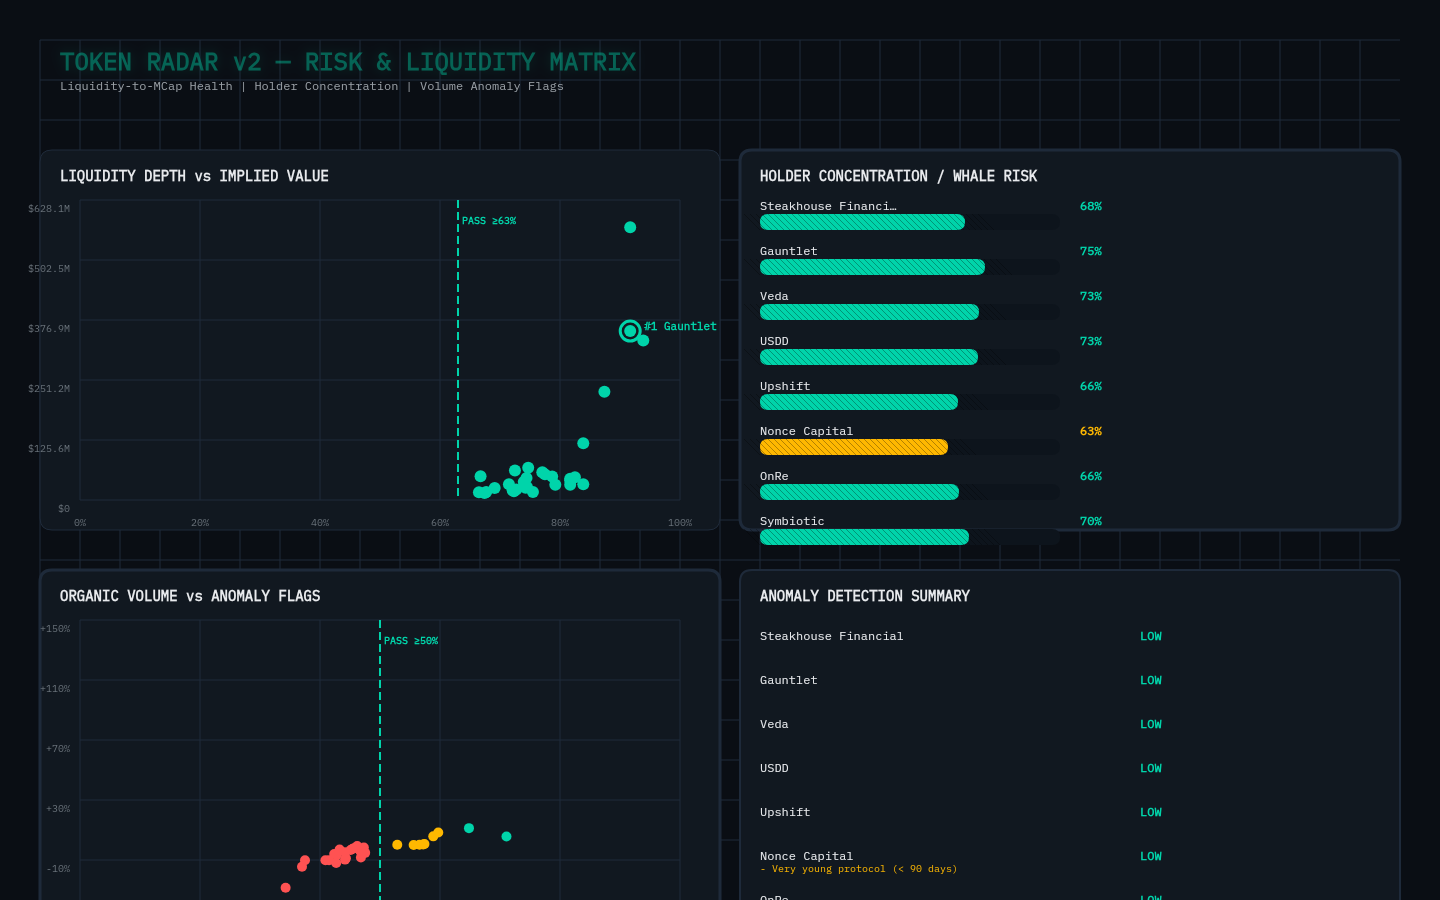
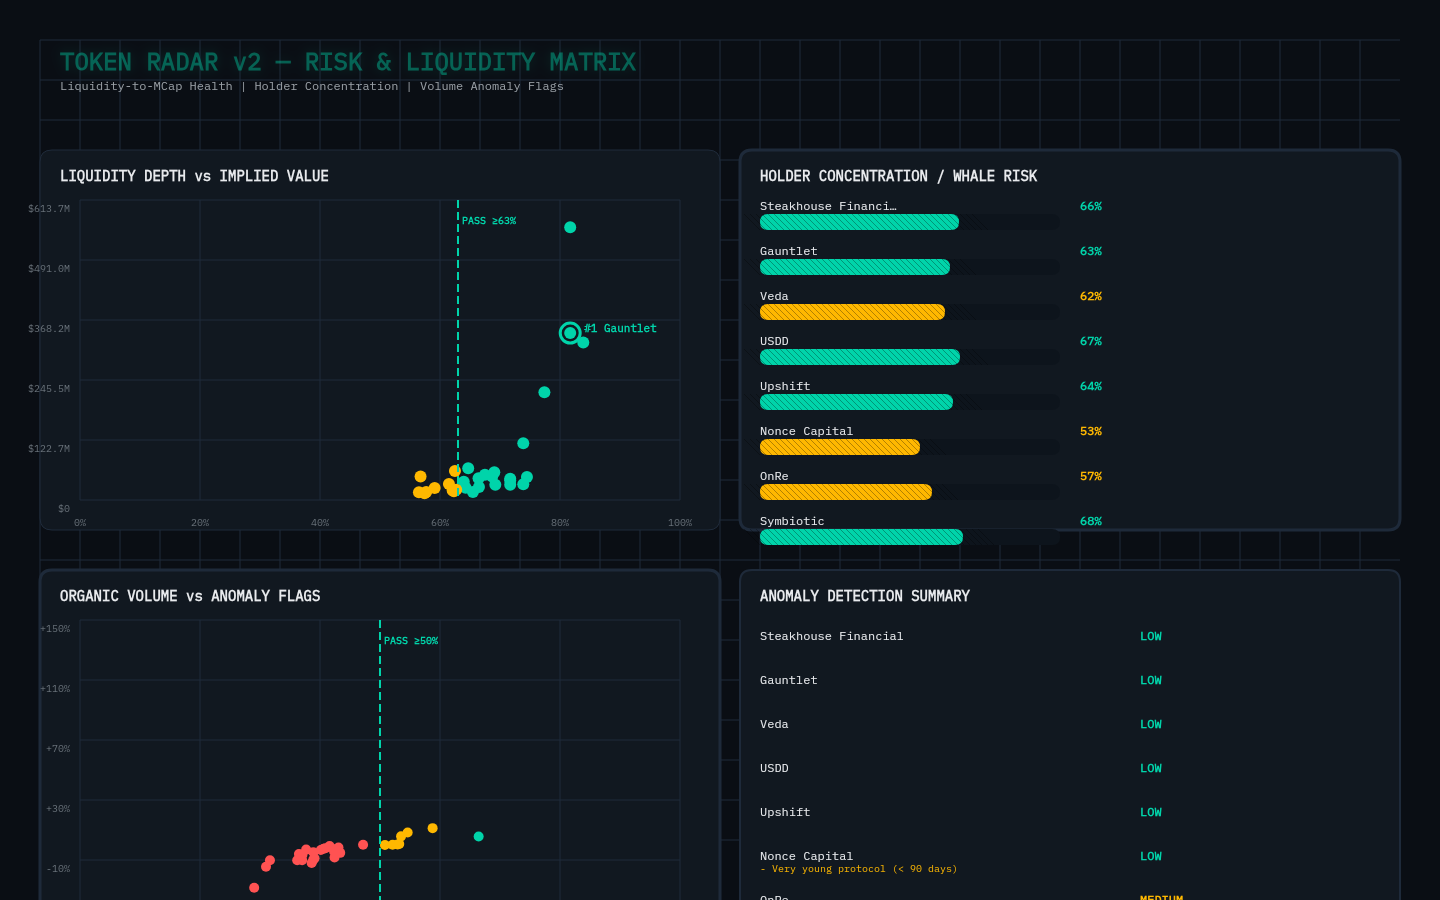
Fix market overview data source and regenerate screenshots
- Update loadRadarData() to check MAKEFUN_OUTPUT_DIR env var first, then output/data.js, then output-test/data.js so screenshots always read the active dataset
- Regenerate all 3 PNGs with correct counts (PASS=6, WATCH=139, REJECT=55; LOW=6, MEDIUM=139, HIGH=55, CRITICAL=0)
- Sync PNGs to /sdcard/Download/
- Re-verify SHA-256 determinism (match confirmed)

🤖 Generated with [Claude Code](https://claude.com/claude-code)

diff --git a/src/generate-screenshots.ts b/src/generate-screenshots.ts
@@ -132,8 +132,15 @@ function drawGlowText(ctx: CanvasRenderingContext2D, text: string, x: number, y:
 }
 
 function loadRadarData() {
-  const dataPath = join(outputDir, 'data.js');
-  if (!existsSync(dataPath)) {
+  const envOut = process.env.MAKEFUN_OUTPUT_DIR;
+  const candidatePaths = [
+    envOut ? join(envOut, 'data.js') : null,
+    join(projectRoot, 'output', 'data.js'),
+    join(projectRoot, 'output-test', 'data.js'),
+  ].filter((p): p is string => Boolean(p));
+
+  const dataPath = candidatePaths.find(p => existsSync(p));
+  if (!dataPath) {
     throw new Error('data.js not found. Run main.ts first.');
   }
   const content = readFileSync(dataPath, 'utf8');
